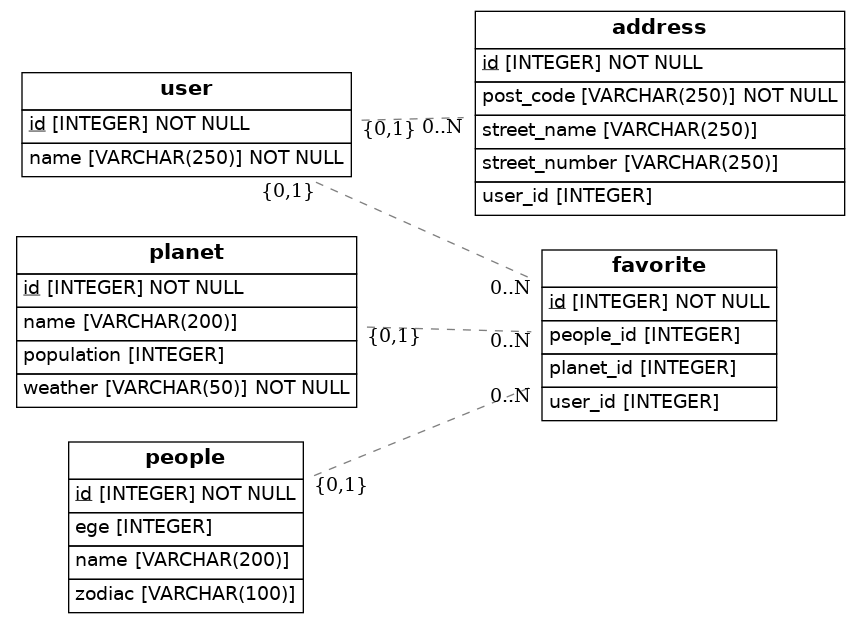
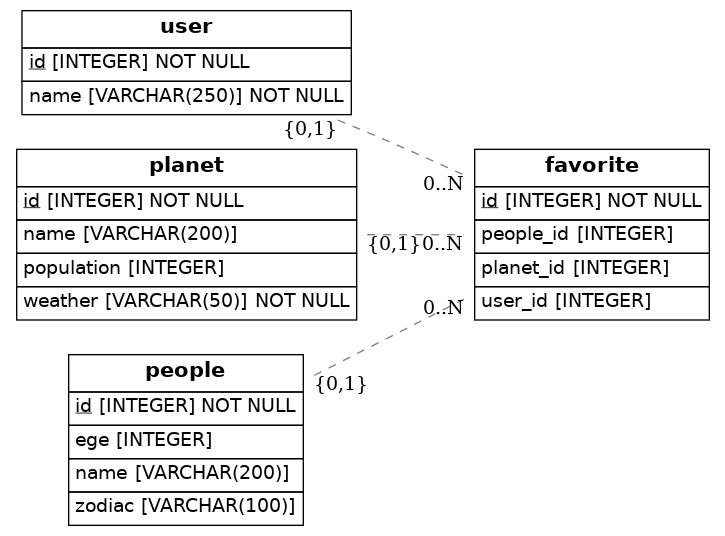
modelado corrgido

Changed region(s): [[0.0, 0.0, 1.0, 1.0], [0.4552, 0.0597, 0.4855, 0.1194], [0.971, 0.5672, 1.0, 0.597]]

diff --git a/src/models.py b/src/models.py
@@ -13,20 +13,8 @@ class User(Base):
     # Notice that each column is also a normal Python instance attribute.
     id = Column(Integer, primary_key=True)
     name = Column(String(250), nullable=False)
-
-class Address(Base):
-    __tablename__ = 'address'
-    # Here we define columns for the table address.
-    # Notice that each column is also a normal Python instance attribute.
-    id = Column(Integer, primary_key=True)
-    street_name = Column(String(250))
-    street_number = Column(String(250))
-    post_code = Column(String(250), nullable=False)
-    user_id = Column(Integer, ForeignKey('user.id'))
-    user = relationship(User)
-
-    def to_dict(self):
-        return {}
+    email = Column(String(250), nullable=False)
+    password = Column(String(250), nullable=False)
     
 class Planet(Base):
     __tablename__="planet"
@@ -56,6 +44,9 @@ class Favorite(Base):
 
     planet_id = Column(Integer, ForeignKey('planet.id'))
     planet = relationship(Planet)
+
+    def to_dict(self):
+        return {}
     
 ## Draw from SQLAlchemy base
 render_er(Base, 'diagram.png')
